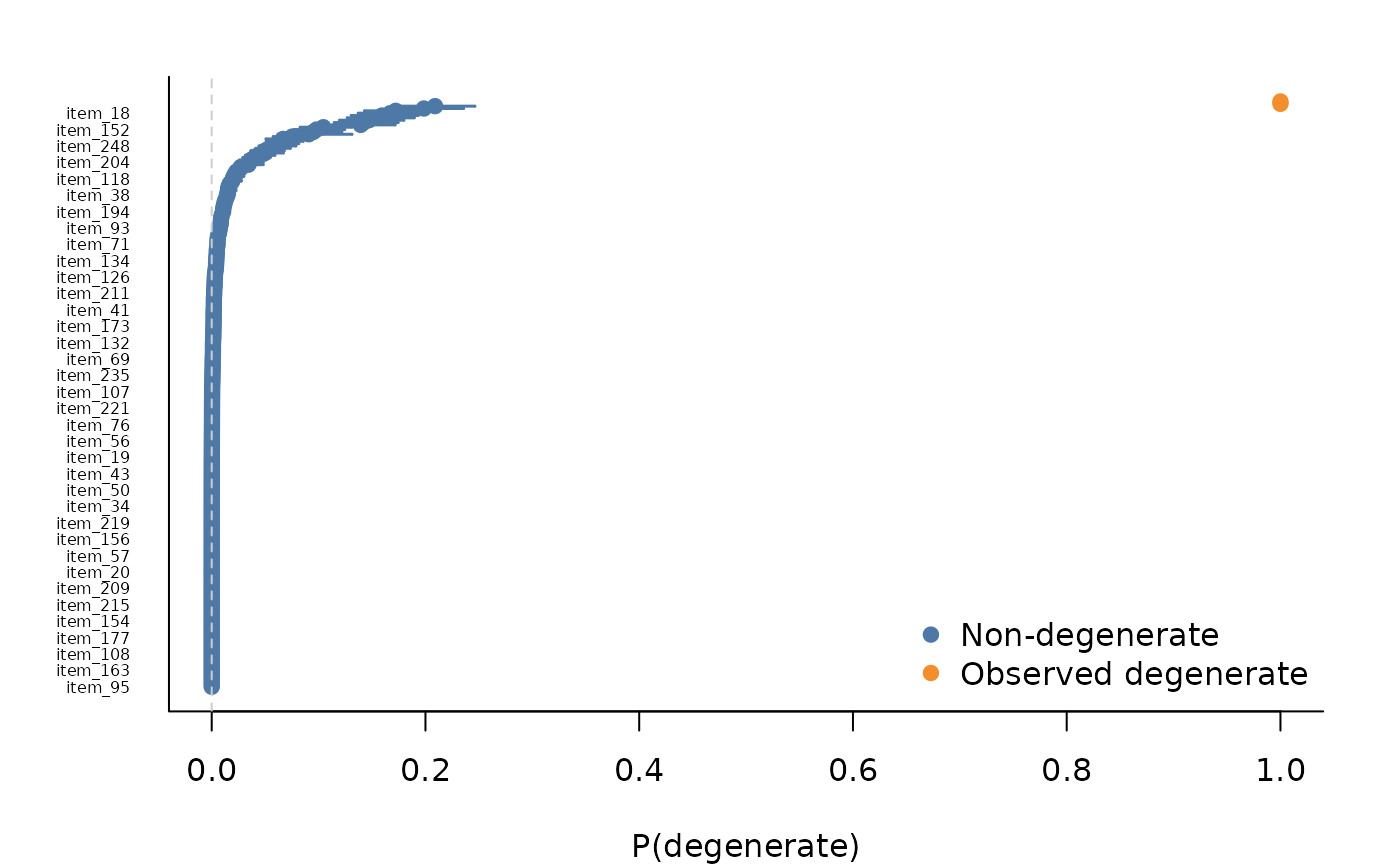
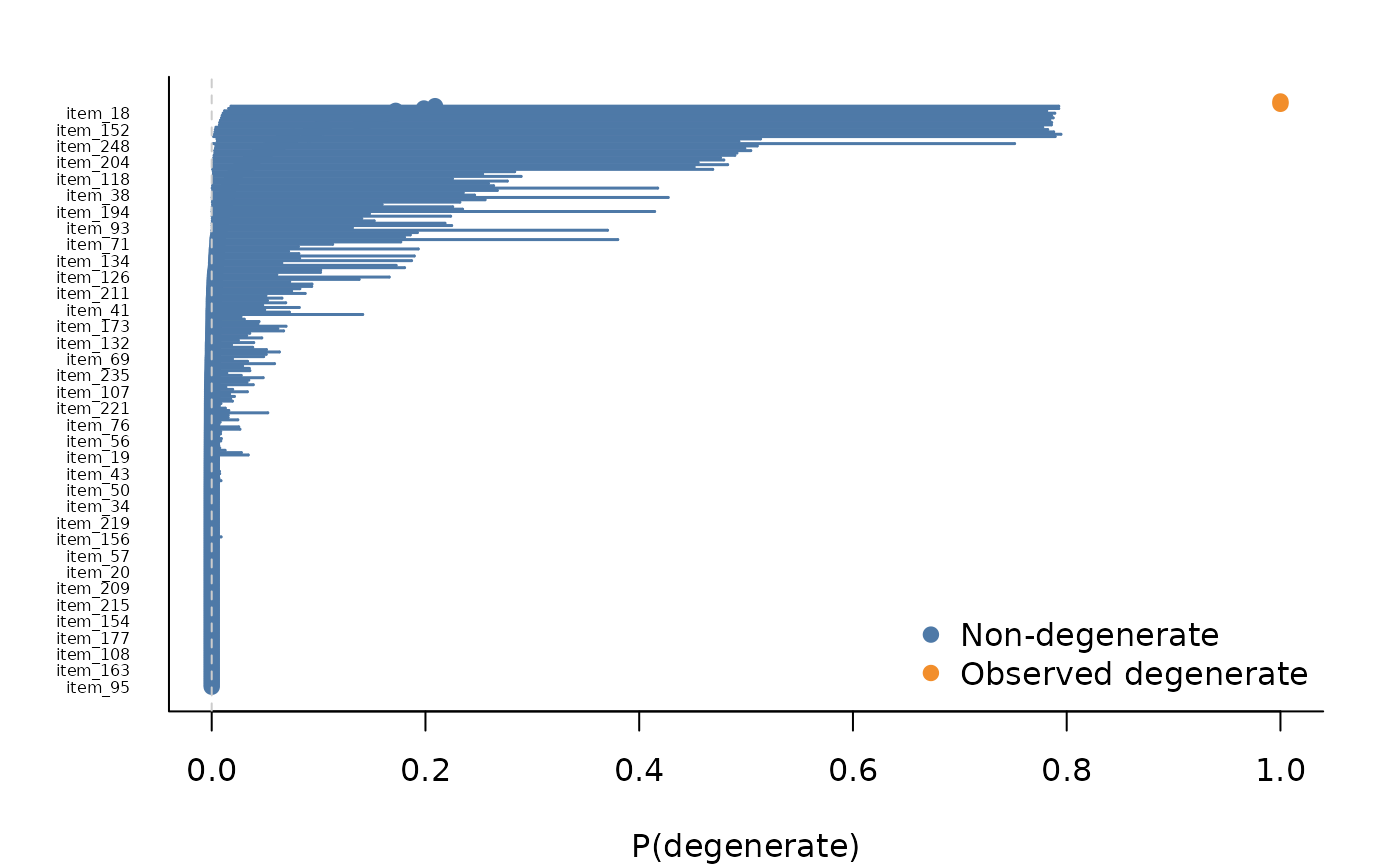
Deploying to gh-pages from @ giuseppealfonzetti/AgreementPhi@6f6dbe931e8049ce369e9815645410e5189829de 🚀

Changed region(s): [[0.1536, 0.0936, 0.7679, 0.5306]]

diff --git a/reference/confint_prob_degenerate.html b/reference/confint_prob_degenerate.html
@@ -1,9 +1,15 @@
 <!DOCTYPE html>
 <!-- Generated by pkgdown: do not edit by hand --><html lang="en"><head><meta http-equiv="Content-Type" content="text/html; charset=UTF-8"><meta charset="utf-8"><meta http-equiv="X-UA-Compatible" content="IE=edge"><meta name="viewport" content="width=device-width, initial-scale=1, shrink-to-fit=no"><title>Confidence intervals for model-based probability of item degeneracy — confint_prob_degenerate • AgreementPhi</title><script src="../deps/jquery-3.6.0/jquery-3.6.0.min.js"></script><meta name="viewport" content="width=device-width, initial-scale=1, shrink-to-fit=no"><link href="../deps/bootstrap-5.3.8/bootstrap.min.css" rel="stylesheet"><script src="../deps/bootstrap-5.3.8/bootstrap.bundle.min.js"></script><link href="../deps/font-awesome-6.5.2/css/all.min.css" rel="stylesheet"><link href="../deps/font-awesome-6.5.2/css/v4-shims.min.css" rel="stylesheet"><script src="../deps/headroom-0.11.0/headroom.min.js"></script><script src="../deps/headroom-0.11.0/jQuery.headroom.min.js"></script><script src="../deps/bootstrap-toc-1.0.1/bootstrap-toc.min.js"></script><script src="../deps/clipboard.js-2.0.11/clipboard.min.js"></script><script src="../deps/search-1.0.0/autocomplete.jquery.min.js"></script><script src="../deps/search-1.0.0/fuse.min.js"></script><script src="../deps/search-1.0.0/mark.min.js"></script><!-- pkgdown --><script src="../pkgdown.js"></script><meta property="og:title" content="Confidence intervals for model-based probability of item degeneracy — confint_prob_degenerate"><meta name="description" content="Applies the delta method to prob_degenerate(), propagating parameter
-uncertainty to per-item probabilities. Item intercepts α_j are treated as
-fixed at their MLE (plug-in). Not defined for two-way models."><meta property="og:description" content="Applies the delta method to prob_degenerate(), propagating parameter
-uncertainty to per-item probabilities. Item intercepts α_j are treated as
-fixed at their MLE (plug-in). Not defined for two-way models."></head><body>
+uncertainty to per-item probabilities. For the inflated (ordered beta) model,
+uncertainty in the item intercepts is propagated via the partitioned
+information matrix (full delta method over the item intercept and the two
+cutpoints); for the ordinal model each item intercept is treated as fixed at
+its MLE (plug-in). Not defined for two-way models."><meta property="og:description" content="Applies the delta method to prob_degenerate(), propagating parameter
+uncertainty to per-item probabilities. For the inflated (ordered beta) model,
+uncertainty in the item intercepts is propagated via the partitioned
+information matrix (full delta method over the item intercept and the two
+cutpoints); for the ordinal model each item intercept is treated as fixed at
+its MLE (plug-in). Not defined for two-way models."></head><body>
     <a href="#main" class="visually-hidden-focusable">Skip to contents</a>
 
 
@@ -43,8 +49,11 @@ fixed at their MLE (plug-in). Not defined for two-way models."></head><body>
 
     <div class="ref-description section level2">
     <p>Applies the delta method to <code><a href="prob_degenerate.html">prob_degenerate()</a></code>, propagating parameter
-uncertainty to per-item probabilities. Item intercepts α_j are treated as
-fixed at their MLE (plug-in). Not defined for two-way models.</p>
+uncertainty to per-item probabilities. For the inflated (ordered beta) model,
+uncertainty in the item intercepts is propagated via the partitioned
+information matrix (full delta method over the item intercept and the two
+cutpoints); for the ordinal model each item intercept is treated as fixed at
+its MLE (plug-in). Not defined for two-way models.</p>
     </div>
 
     <div class="section level2">

diff --git a/reference/confint_prob_degenerate.md b/reference/confint_prob_degenerate.md
@@ -2,9 +2,12 @@
 
 Applies the delta method to
 [`prob_degenerate()`](https://giuseppealfonzetti.github.io/AgreementPhi/reference/prob_degenerate.md),
-propagating parameter uncertainty to per-item probabilities. Item
-intercepts α_j are treated as fixed at their MLE (plug-in). Not defined
-for two-way models.
+propagating parameter uncertainty to per-item probabilities. For the
+inflated (ordered beta) model, uncertainty in the item intercepts is
+propagated via the partitioned information matrix (full delta method
+over the item intercept and the two cutpoints); for the ordinal model
+each item intercept is treated as fixed at its MLE (plug-in). Not
+defined for two-way models.
 
 ## Usage
 